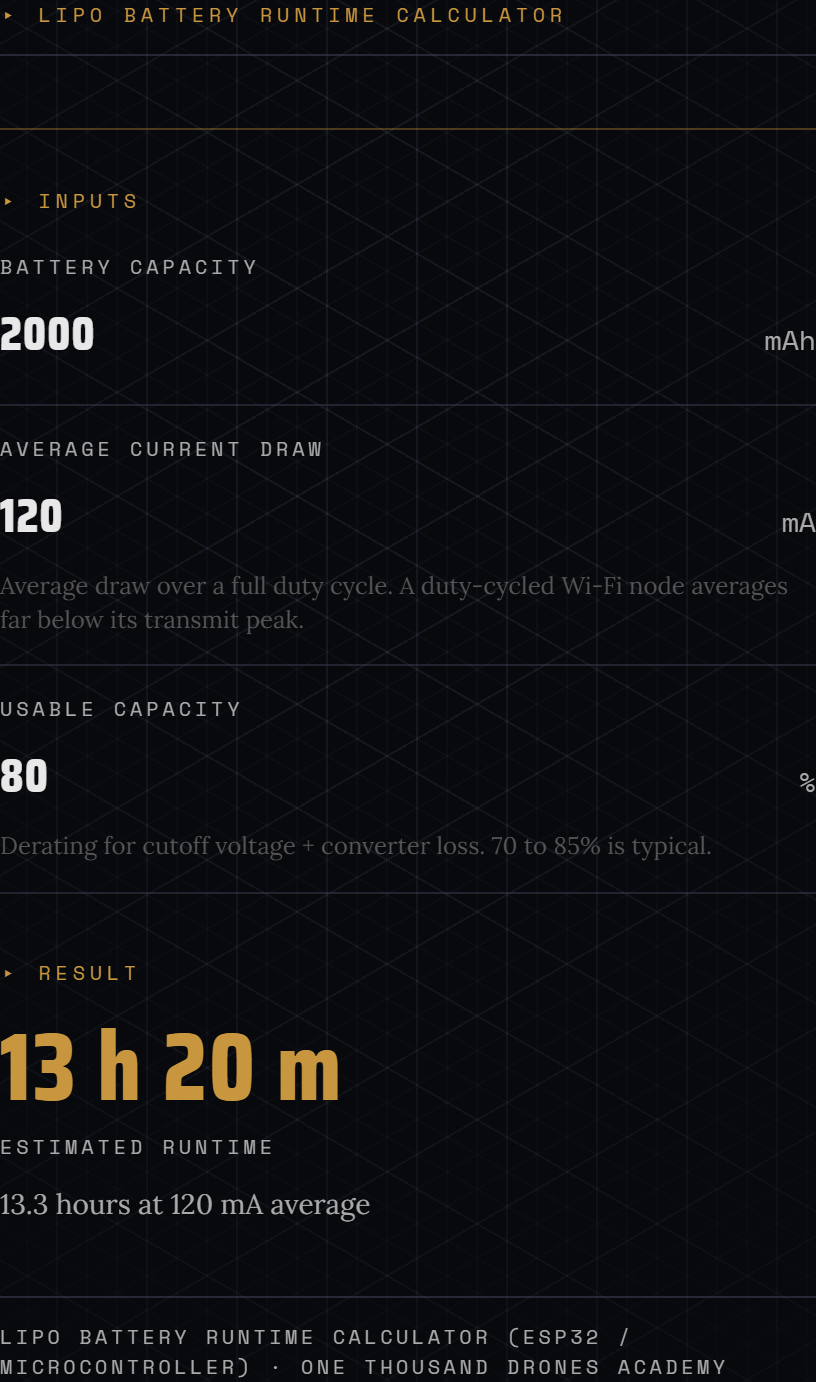
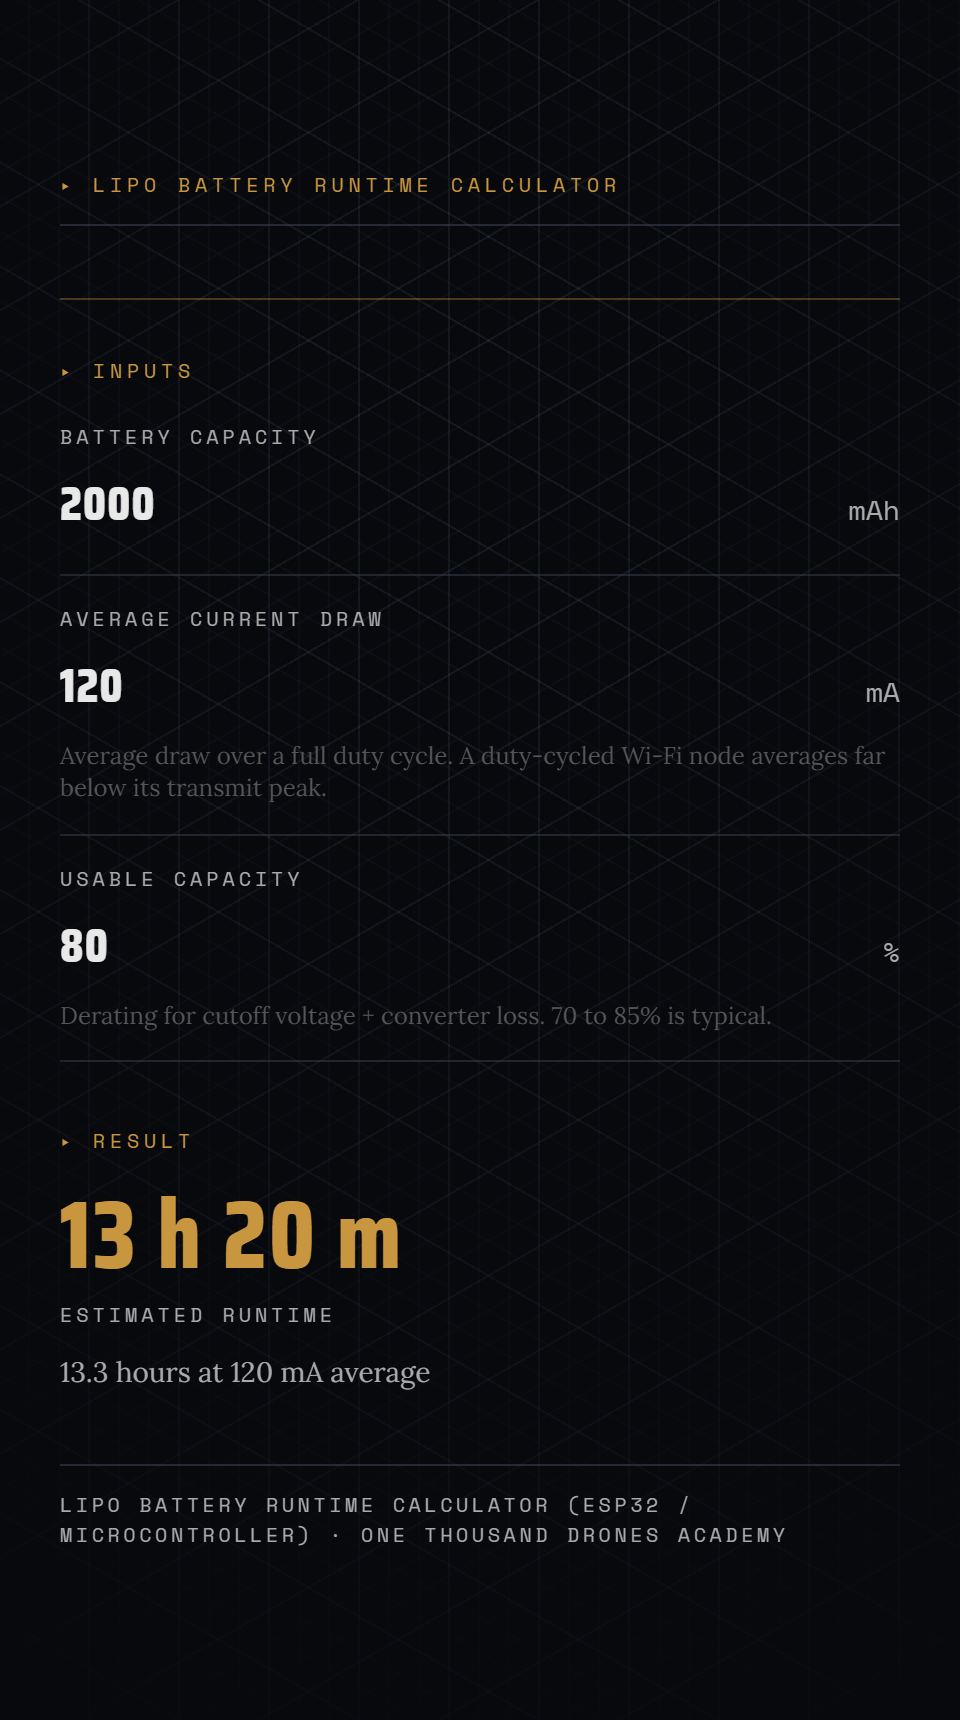
docs: uniform calculator screenshots (centered, prod-rendered)
Same viewport size for every shot, calculator vertically centered with padding, so
the README lineup is even and not clipped to each card's bounds. Captured from the
deployed /embed pages (no dev overlay). Three 3-input calculators of equal height.

diff --git a/README.md b/README.md
@@ -10,7 +10,7 @@ pulled out so you can use it directly or check the numbers.
 [![License: MIT](https://img.shields.io/badge/License-MIT-c8963e.svg)](./LICENSE)
 
 <p align="center">
-  <a href="https://academy.onethousanddrones.com/tools/pcb-trace-width"><img src="docs/pcb-trace-width.png" width="32%" alt="PCB trace width calculator" /></a>
+  <a href="https://academy.onethousanddrones.com/tools/led-series-resistor"><img src="docs/led-series-resistor.png" width="32%" alt="LED series resistor calculator" /></a>
   <a href="https://academy.onethousanddrones.com/tools/lipo-battery-runtime"><img src="docs/lipo-battery-runtime.png" width="32%" alt="LiPo battery runtime calculator" /></a>
   <a href="https://academy.onethousanddrones.com/tools/voltage-divider"><img src="docs/voltage-divider.png" width="32%" alt="Voltage divider calculator" /></a>
 </p>
